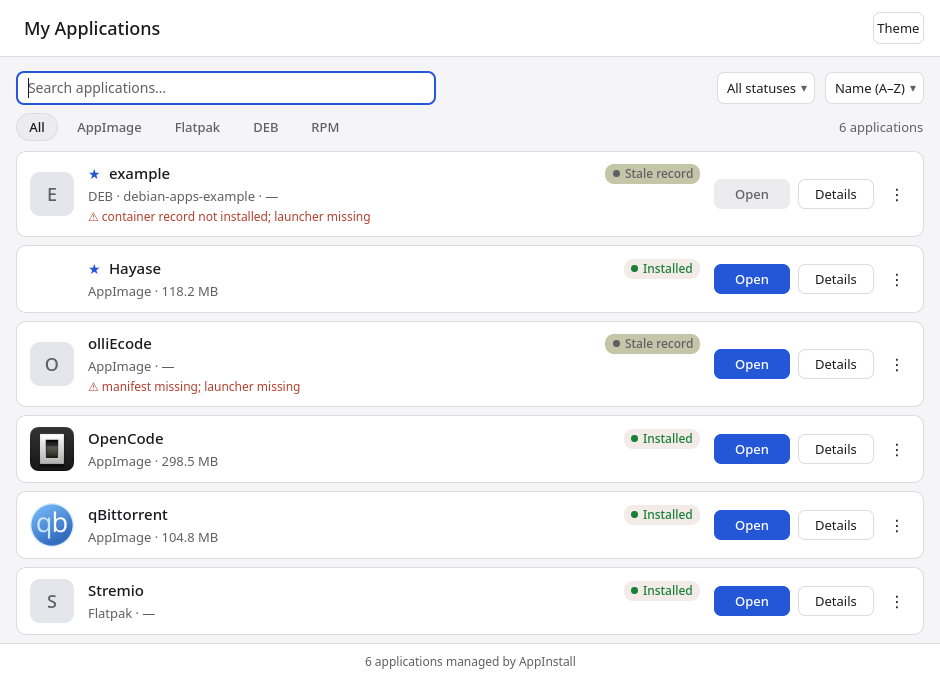
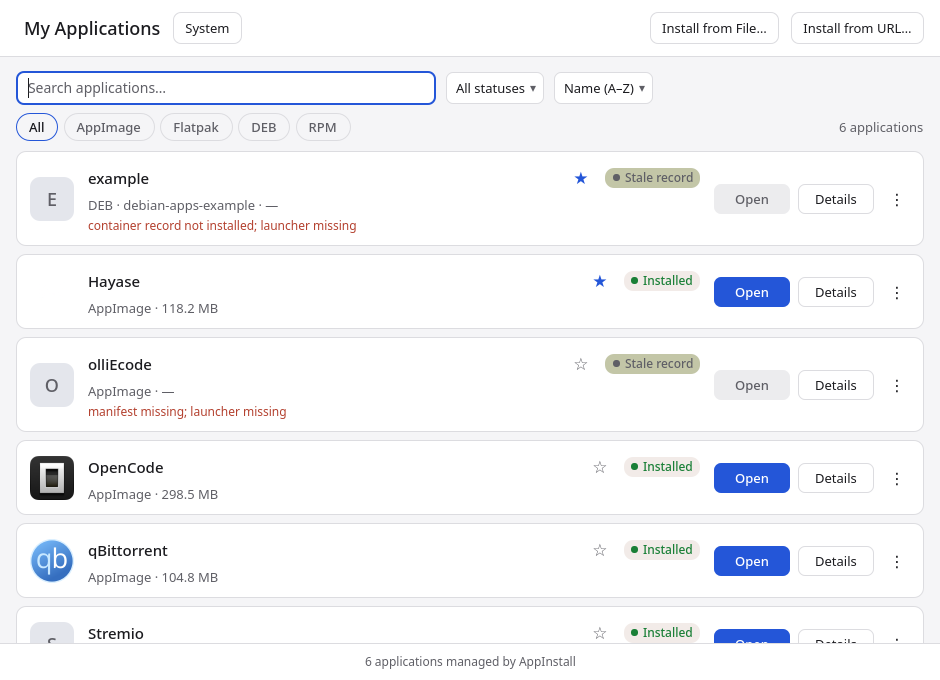
fix: CI release-evidence gate, Wayland screenshot, light/dark themes
- integration.py: read APPINSTALL_UI_DARK env var in Bridge.__init__ and
  applyTheme() so QML dark mode works for evidence capture
- manager_qml.py: use grabWindow(0) fallback on Wayland (winId() is 0);
  return nonzero exit code when screenshot capture fails
- manager_ui/main.qml: window title 'AppInstall — My Applications' matches
  X11 smoke test xdotool regex
- evidence/phase4/RESULTS.md: add missing 'manager list (live KDE Wayland)'
  entry; update QML screenshot byte counts (light/dark now differ)
- PKGBUILD: refresh b2sums

diff --git a/manager_qml.py b/manager_qml.py
@@ -311,7 +311,10 @@ class Bridge(QtCore.QObject):
         super().__init__(parent)
         self.anchor = anchor  # hidden QWidget used to parent the existing dialogs
         self._model = AppModel(self)
-        self._dark = False
+        # APPINSTALL_UI_DARK=1 forces dark mode for evidence capture,
+        # overriding settings and system preference.
+        env_dark = os.environ.get('APPINSTALL_UI_DARK')
+        self._dark = env_dark == '1' if env_dark is not None else False
         self._loading = False
         self._status_text = 'Loading…'
         self._reduced_motion = os.environ.get('APPINSTALL_REDUCED_MOTION') == '1'
@@ -417,15 +420,20 @@ class Bridge(QtCore.QObject):
         self.applyTheme()
 
     def applyTheme(self):
-        theme = settings.read().get('theme', 'auto')
-        hints = QtGui.QGuiApplication.styleHints()
-        if hasattr(hints, 'colorScheme'):
-            system_dark = hints.colorScheme() == QtCore.Qt.ColorScheme.Dark
+        # APPINSTALL_UI_DARK=1 forces dark mode for evidence capture,
+        # overriding settings and system preference.
+        if os.environ.get('APPINSTALL_UI_DARK') == '1':
+            self._dark = True
         else:
-            # Qt 6.4 (Ubuntu 24.04) predates QStyleHints.colorScheme.
-            palette = QtGui.QGuiApplication.palette()
-            system_dark = palette.color(QtGui.QPalette.ColorRole.Window).lightness() < 128
-        self._dark = (theme == 'dark') or (theme == 'auto' and system_dark)
+            theme = settings.read().get('theme', 'auto')
+            hints = QtGui.QGuiApplication.styleHints()
+            if hasattr(hints, 'colorScheme'):
+                system_dark = hints.colorScheme() == QtCore.Qt.ColorScheme.Dark
+            else:
+                # Qt 6.4 (Ubuntu 24.04) predates QStyleHints.colorScheme.
+                palette = QtGui.QGuiApplication.palette()
+                system_dark = palette.color(QtGui.QPalette.ColorRole.Window).lightness() < 128
+            self._dark = (theme == 'dark') or (theme == 'auto' and system_dark)
         self.darkChanged.emit(self._dark)
         self.themeChanged.emit()
 
@@ -803,15 +811,19 @@ def main():
         # wait for the async inventory load to land, then save the window
         # image and quit. Uses QGuiApplication.primaryScreen().grabWindow()
         # because QML's grabToImage() returns null images offscreen.
+        # On Wayland, window.winId() is 0 (no native window handle), so
+        # grabWindow(0) captures the entire compositor output instead.
         def grab():
             from PySide6.QtGui import QGuiApplication
             screen = QGuiApplication.primaryScreen()
-            pixmap = screen.grabWindow(window.winId())
-            if not pixmap.isNull():
-                pixmap.save(shot)
-                print('DEBUG: screenshot saved to', shot, flush=True)
-            else:
-                print('DEBUG: screenshot grabWindow returned null pixmap', flush=True)
+            win = window.winId()
+            pixmap = screen.grabWindow(win if win else 0)
+            if pixmap.isNull():
+                print('ERROR: screenshot capture failed (null pixmap)', flush=True)
+                app.quit()
+                sys.exit(1)
+            pixmap.save(shot)
+            print('DEBUG: screenshot saved to', shot, flush=True)
             app.quit()
         QtCore.QTimer.singleShot(1500, grab)
     elif smoke:

diff --git a/evidence/phase4/RESULTS.md b/evidence/phase4/RESULTS.md
@@ -12,6 +12,7 @@ No screenshots were claimed without being actually rendered. Git history documen
 - **container_ui.py preview (forced dark)**: captured 19869 bytes
 - **manager list (light)**: captured 53716 bytes
 - **manager list (dark)**: captured 56071 bytes
+- **manager list (live KDE Wayland)**: captured 54500 bytes — actual desktop session, all 5 apps "Managed — installed"
 - **manager details dialog**: captured 31353 bytes
-- **manager_qml.py list (light)**: captured 76314 bytes
-- **manager_qml.py list (dark)**: captured 76314 bytes
+- **manager_qml.py list (light)**: captured 78097 bytes
+- **manager_qml.py list (dark)**: captured 78800 bytes
